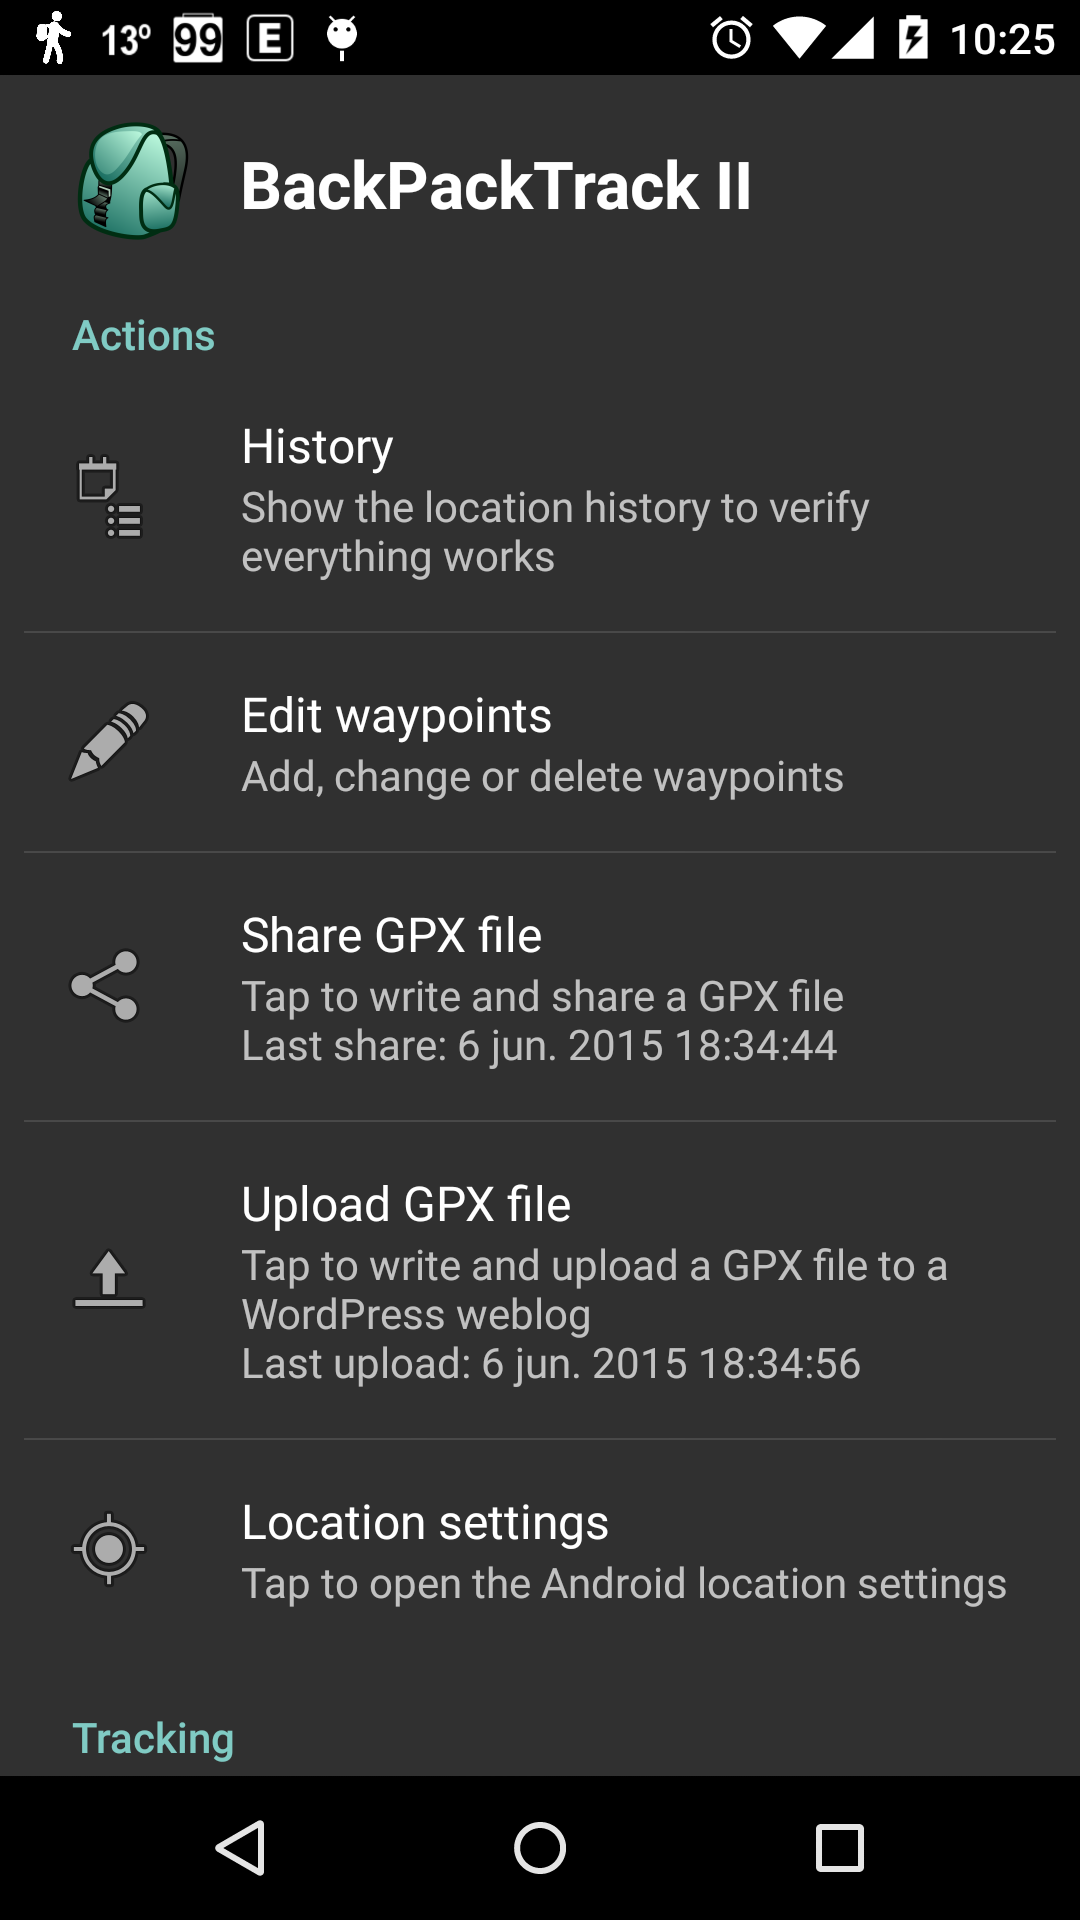
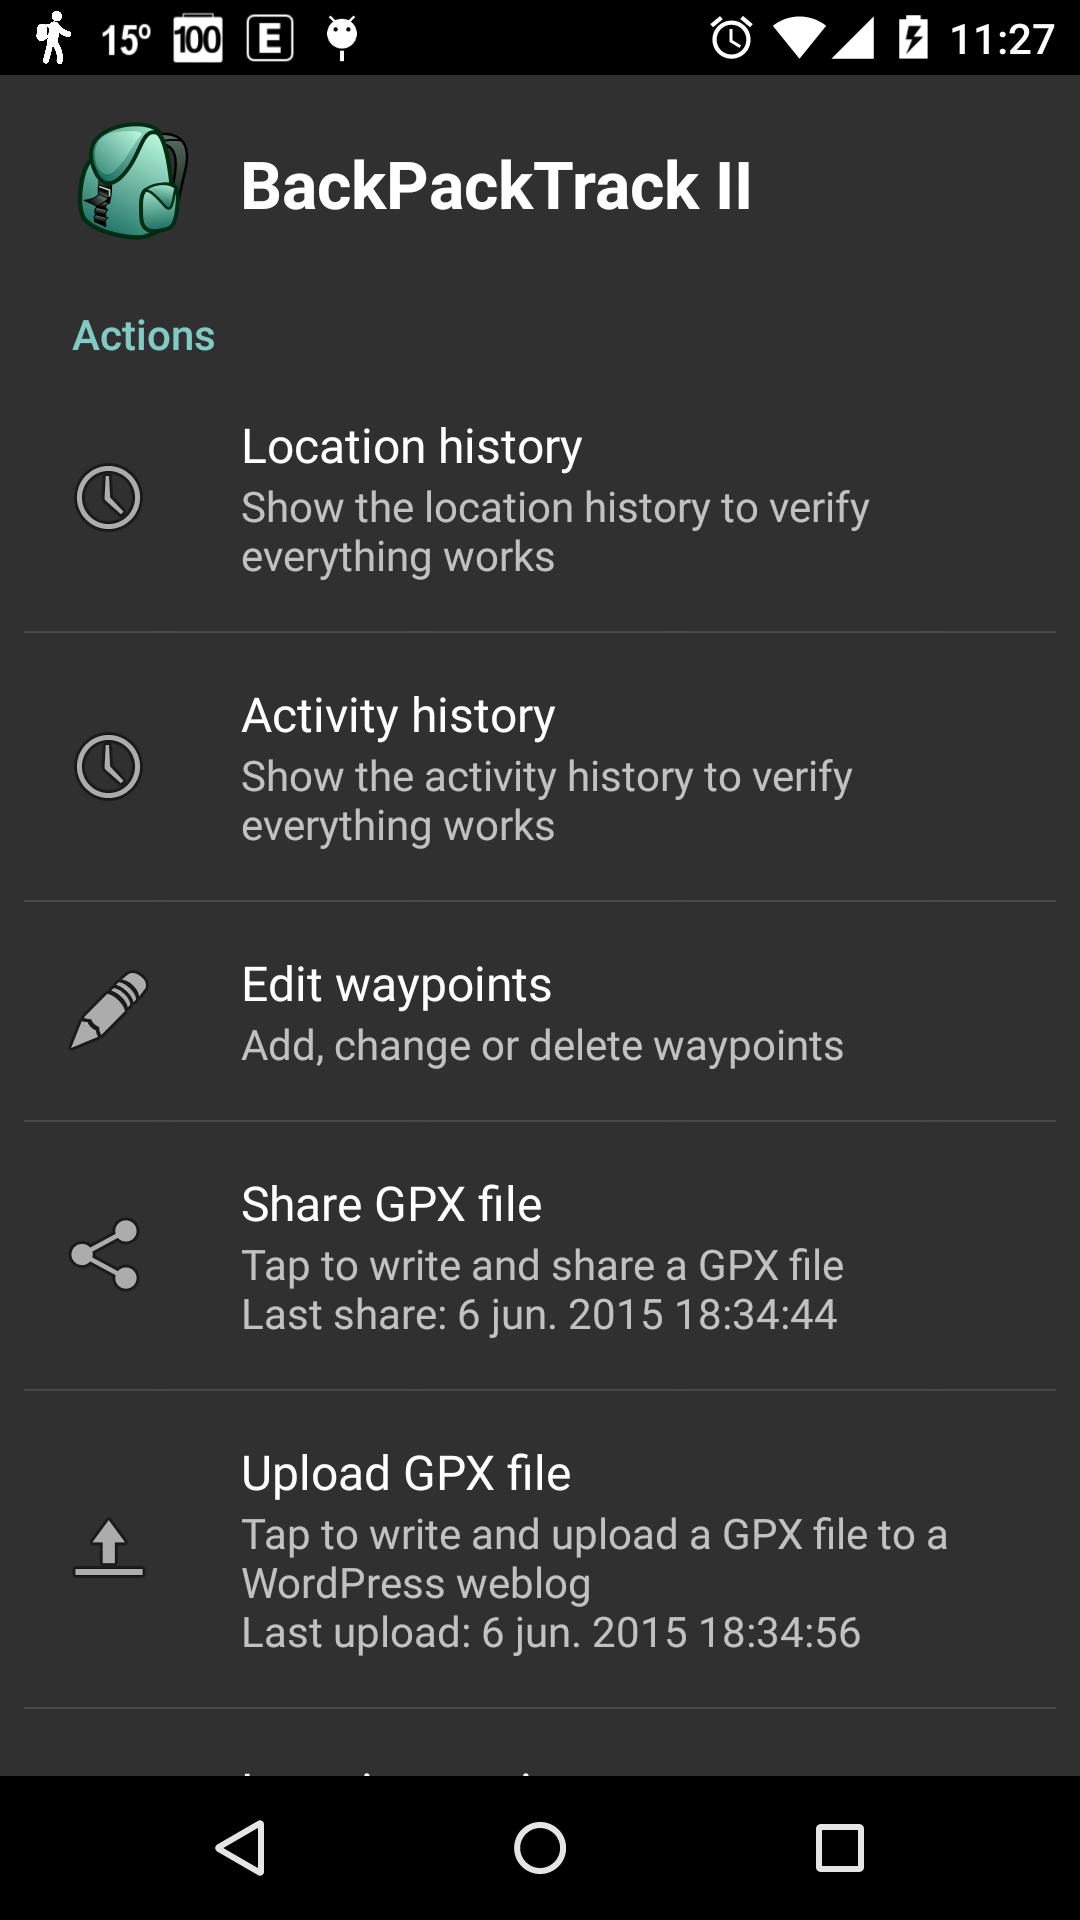
Added registering/viewing activities

diff --git a/app/src/main/java/eu/faircode/backpacktrack2/ActivitySettings.java b/app/src/main/java/eu/faircode/backpacktrack2/ActivitySettings.java
@@ -66,7 +66,8 @@ public class ActivitySettings extends PreferenceActivity implements SharedPrefer
     private static final String TAG = "BPT2.Settings";
 
     // Preference names
-    public static final String PREF_HISTORY = "pref_history";
+    public static final String PREF_LOCATION_HISTORY = "pref_location_history";
+    public static final String PREF_ACTIVITY_HISTORY = "pref_activity_history";
     public static final String PREF_EDIT = "pref_edit";
     public static final String PREF_SHARE = "pref_share";
     public static final String PREF_UPLOAD = "pref_upload";
@@ -197,7 +198,8 @@ public class ActivitySettings extends PreferenceActivity implements SharedPrefer
         }
 
         // Get preferences
-        Preference pref_history = findPreference(PREF_HISTORY);
+        Preference pref_location_history = findPreference(PREF_LOCATION_HISTORY);
+        Preference pref_activity_history = findPreference(PREF_ACTIVITY_HISTORY);
         Preference pref_edit = findPreference(PREF_EDIT);
         Preference pref_share = findPreference(PREF_SHARE);
         Preference pref_upload = findPreference(PREF_UPLOAD);
@@ -232,19 +234,28 @@ public class ActivitySettings extends PreferenceActivity implements SharedPrefer
         updateTitle(prefs, PREF_BLOGPWD);
 
         // Handle location history
-        pref_history.setOnPreferenceClickListener(new Preference.OnPreferenceClickListener() {
+        pref_location_history.setOnPreferenceClickListener(new Preference.OnPreferenceClickListener() {
             @Override
             public boolean onPreferenceClick(Preference preference) {
-                history();
+                location_history();
                 return true;
             }
         });
 
-        // Handle edit waypoints
+        // Handle location history
+        pref_activity_history.setOnPreferenceClickListener(new Preference.OnPreferenceClickListener() {
+            @Override
+            public boolean onPreferenceClick(Preference preference) {
+                activity_history();
+                return true;
+            }
+        });
+
+        // Handle waypoint_edit waypoints
         pref_edit.setOnPreferenceClickListener(new Preference.OnPreferenceClickListener() {
             @Override
             public boolean onPreferenceClick(Preference preference) {
-                edit();
+                edit_waypoints();
                 return true;
             }
         });
@@ -295,6 +306,7 @@ public class ActivitySettings extends PreferenceActivity implements SharedPrefer
 
         // Check for Play services
         boolean playServices = (GooglePlayServicesUtil.isGooglePlayServicesAvailable(this) == ConnectionResult.SUCCESS);
+        findPreference(PREF_ACTIVITY_HISTORY).setEnabled(playServices);
         findPreference(PREF_RECOGNITION_ENABLED).setEnabled(playServices);
         findPreference(PREF_RECOGNITION_INTERVAL).setEnabled(playServices);
         findPreference(PREF_RECOGNITION_CONFIDENCE).setEnabled(playServices);
@@ -386,21 +398,21 @@ public class ActivitySettings extends PreferenceActivity implements SharedPrefer
 
     // Helper methods
 
-    private void history() {
+    private void location_history() {
         // Get layout
         LayoutInflater inflater = LayoutInflater.from(ActivitySettings.this);
-        View viewEdit = inflater.inflate(R.layout.history, null);
+        View viewHistory = inflater.inflate(R.layout.location_history, null);
 
         // Fill list
-        ListView lv = (ListView) viewEdit.findViewById(R.id.lvHistory);
-        Cursor cursor = db.getList(0, Long.MAX_VALUE, true, true);
+        ListView lv = (ListView) viewHistory.findViewById(R.id.lvLocationHistory);
+        Cursor cursor = db.getLocations(0, Long.MAX_VALUE, true, true);
         LocationAdapter adapter = new LocationAdapter(ActivitySettings.this, cursor);
         lv.setAdapter(adapter);
 
         // Show layout
         AlertDialog.Builder alertDialogBuilder = new AlertDialog.Builder(ActivitySettings.this);
-        alertDialogBuilder.setTitle(R.string.title_history);
-        alertDialogBuilder.setView(viewEdit);
+        alertDialogBuilder.setTitle(R.string.title_location_history);
+        alertDialogBuilder.setView(viewHistory);
         alertDialogBuilder
                 .setNegativeButton(android.R.string.cancel, new DialogInterface.OnClickListener() {
                     @Override
@@ -414,24 +426,50 @@ public class ActivitySettings extends PreferenceActivity implements SharedPrefer
         alertDialog.getWindow().clearFlags(WindowManager.LayoutParams.FLAG_NOT_FOCUSABLE | WindowManager.LayoutParams.FLAG_ALT_FOCUSABLE_IM);
     }
 
-    private void edit() {
+    private void activity_history() {
+        // Get layout
+        LayoutInflater inflater = LayoutInflater.from(ActivitySettings.this);
+        View viewHistory = inflater.inflate(R.layout.activity_history, null);
+
+        // Fill list
+        ListView lv = (ListView) viewHistory.findViewById(R.id.lvActivityHistory);
+        Cursor cursor = db.getActivities(0, Long.MAX_VALUE);
+        ActivityAdapter adapter = new ActivityAdapter(ActivitySettings.this, cursor);
+        lv.setAdapter(adapter);
+
+        // Show layout
+        AlertDialog.Builder alertDialogBuilder = new AlertDialog.Builder(ActivitySettings.this);
+        alertDialogBuilder.setTitle(R.string.title_activity_history);
+        alertDialogBuilder.setView(viewHistory);
+        alertDialogBuilder
+                .setNegativeButton(android.R.string.cancel, new DialogInterface.OnClickListener() {
+                    @Override
+                    public void onClick(DialogInterface dialog, int which) {
+                        // Do nothing
+                    }
+                });
+        AlertDialog alertDialog = alertDialogBuilder.create();
+        alertDialog.show();
+    }
+
+    private void edit_waypoints() {
         // Get layout
         final LayoutInflater inflater = LayoutInflater.from(ActivitySettings.this);
-        View viewEdit = inflater.inflate(R.layout.edit, null);
+        View viewEdit = inflater.inflate(R.layout.waypoint_edit, null);
 
         // Fill list
         ListView lv = (ListView) viewEdit.findViewById(R.id.lvEdit);
-        Cursor cursor = db.getList(0, Long.MAX_VALUE, false, true);
+        Cursor cursor = db.getLocations(0, Long.MAX_VALUE, false, true);
         final WaypointAdapter adapter = new WaypointAdapter(ActivitySettings.this, cursor);
         lv.setAdapter(adapter);
 
-        // Handle add
+        // Handle waypoint_add
         ImageView ivAdd = (ImageView) viewEdit.findViewById(R.id.ivAdd);
         if (Geocoder.isPresent())
             ivAdd.setOnClickListener(new View.OnClickListener() {
                 @Override
                 public void onClick(View view) {
-                    final View viewEdit = inflater.inflate(R.layout.add, null);
+                    final View viewEdit = inflater.inflate(R.layout.waypoint_add, null);
                     final EditText address = (EditText) viewEdit.findViewById(R.id.etAdd);
 
                     AlertDialog.Builder alertDialogBuilder = new AlertDialog.Builder(ActivitySettings.this);
@@ -443,7 +481,7 @@ public class ActivitySettings extends PreferenceActivity implements SharedPrefer
                                 public void onClick(DialogInterface dialog, int which) {
                                     String name = address.getText().toString();
                                     if (!TextUtils.isEmpty(name))
-                                        add(name, adapter);
+                                        add_waypoint(name, adapter);
                                 }
                             });
                     alertDialogBuilder
@@ -477,7 +515,7 @@ public class ActivitySettings extends PreferenceActivity implements SharedPrefer
         alertDialog.getWindow().clearFlags(WindowManager.LayoutParams.FLAG_NOT_FOCUSABLE | WindowManager.LayoutParams.FLAG_ALT_FOCUSABLE_IM);
     }
 
-    private void add(final String name, final WaypointAdapter adapter) {
+    private void add_waypoint(final String name, final WaypointAdapter adapter) {
         // Geocode name
         Toast.makeText(this, getString(R.string.msg_geocoding, name), Toast.LENGTH_SHORT).show();
 
@@ -524,7 +562,7 @@ public class ActivitySettings extends PreferenceActivity implements SharedPrefer
 
                                 @Override
                                 protected void onPostExecute(Object result) {
-                                    Cursor cursor = db.getList(0, Long.MAX_VALUE, false, true);
+                                    Cursor cursor = db.getLocations(0, Long.MAX_VALUE, false, true);
                                     adapter.changeCursor(cursor);
                                     Toast.makeText(ActivitySettings.this, getString(R.string.msg_added, geocodedName), Toast.LENGTH_SHORT).show();
                                 }
@@ -861,7 +899,7 @@ public class ActivitySettings extends PreferenceActivity implements SharedPrefer
 
                                                 @Override
                                                 protected void onPostExecute(Object result) {
-                                                    Cursor cursor = db.getList(0, Long.MAX_VALUE, false, true);
+                                                    Cursor cursor = db.getLocations(0, Long.MAX_VALUE, false, true);
                                                     changeCursor(cursor);
                                                     Toast.makeText(context, getString(R.string.msg_updated, geocodedName), Toast.LENGTH_SHORT).show();
                                                 }
@@ -898,7 +936,7 @@ public class ActivitySettings extends PreferenceActivity implements SharedPrefer
 
                         @Override
                         protected void onPostExecute(Object result) {
-                            Cursor cursor = db.getList(0, Long.MAX_VALUE, false, true);
+                            Cursor cursor = db.getLocations(0, Long.MAX_VALUE, false, true);
                             changeCursor(cursor);
                             Toast.makeText(context, getString(R.string.msg_updated, newName), Toast.LENGTH_SHORT).show();
                         }
@@ -924,7 +962,7 @@ public class ActivitySettings extends PreferenceActivity implements SharedPrefer
 
                                         @Override
                                         protected void onPostExecute(Object result) {
-                                            Cursor cursor = db.getList(0, Long.MAX_VALUE, false, true);
+                                            Cursor cursor = db.getLocations(0, Long.MAX_VALUE, false, true);
                                             changeCursor(cursor);
                                             Toast.makeText(context, getString(R.string.msg_deleted, name), Toast.LENGTH_SHORT).show();
                                         }
@@ -1028,6 +1066,35 @@ public class ActivitySettings extends PreferenceActivity implements SharedPrefer
                     }
                 }
             });
+        }
+    }
+
+    private class ActivityAdapter extends CursorAdapter {
+        public ActivityAdapter(Context context, Cursor cursor) {
+            super(context, cursor, 0);
+        }
+
+        @Override
+        public View newView(Context context, Cursor cursor, ViewGroup parent) {
+            return LayoutInflater.from(context).inflate(R.layout.activity, parent, false);
+        }
+
+        @Override
+        public void bindView(final View view, final Context context, final Cursor cursor) {
+            // Get values
+            long time = cursor.getLong(cursor.getColumnIndex("time"));
+            int activity = cursor.getInt(cursor.getColumnIndex("activity"));
+            int confidence = cursor.getInt(cursor.getColumnIndex("confidence"));
+
+            // Get views
+            TextView tvTime = (TextView) view.findViewById(R.id.tvTime);
+            TextView tvActivity = (TextView) view.findViewById(R.id.tvActivity);
+            TextView tvConfidence = (TextView) view.findViewById(R.id.tvConfidence);
+
+            // Set values
+            tvTime.setText(SimpleDateFormat.getDateTimeInstance(SimpleDateFormat.SHORT, SimpleDateFormat.MEDIUM).format(time));
+            tvActivity.setText(LocationService.getActivityName(activity, ActivitySettings.this));
+            tvConfidence.setText(confidence + "%");
         }
     }
 }

diff --git a/app/src/main/java/eu/faircode/backpacktrack2/DatabaseHelper.java b/app/src/main/java/eu/faircode/backpacktrack2/DatabaseHelper.java
@@ -6,10 +6,13 @@ import android.database.Cursor;
 import android.database.sqlite.SQLiteDatabase;
 import android.database.sqlite.SQLiteOpenHelper;
 import android.location.Location;
+import android.util.Log;
 
 public class DatabaseHelper extends SQLiteOpenHelper {
+    private static final String TAG = "BPT2.Database";
+
     private static final String DBNAME = "BACKPACKTRACKII";
-    private static final int DBVERSION = 1;
+    private static final int DBVERSION = 2;
 
     public DatabaseHelper(Context context) {
         super(context, DBNAME, null, DBVERSION);
@@ -17,6 +20,7 @@ public class DatabaseHelper extends SQLiteOpenHelper {
 
     @Override
     public void onCreate(SQLiteDatabase db) {
+        Log.w(TAG, "Creating database");
         db.execSQL("CREATE TABLE location (" +
                 " ID INTEGER PRIMARY KEY AUTOINCREMENT" +
                 ", time INTEGER NOT NULL" +
@@ -34,6 +38,16 @@ public class DatabaseHelper extends SQLiteOpenHelper {
 
     @Override
     public void onUpgrade(SQLiteDatabase db, int oldVersion, int newVersion) {
+        Log.w(TAG, "Upgrading from version " + oldVersion + " to " + newVersion);
+        switch (oldVersion) {
+            case 1:
+                db.execSQL("CREATE TABLE activity (" +
+                        " ID INTEGER PRIMARY KEY AUTOINCREMENT" +
+                        ", time INTEGER NOT NULL" +
+                        ", activity INTEGER NOT NULL" +
+                        ", confidence INTEGER NOT NULL" + ");");
+                db.execSQL("CREATE INDEX idx_activity_time ON activity(time)");
+        }
     }
 
     public DatabaseHelper insert(Location location, String name) {
@@ -75,7 +89,20 @@ public class DatabaseHelper extends SQLiteOpenHelper {
         return this;
     }
 
-    public Cursor getList(long from, long to, boolean trackpoints, boolean waypoints) {
+    public DatabaseHelper insert(long time, int activity, int confidence) {
+        SQLiteDatabase db = this.getWritableDatabase();
+
+        ContentValues cv = new ContentValues();
+        cv.put("time", time);
+        cv.put("activity", activity);
+        cv.put("confidence", confidence);
+
+        db.insert("activity", null, cv);
+
+        return this;
+    }
+
+    public Cursor getLocations(long from, long to, boolean trackpoints, boolean waypoints) {
         SQLiteDatabase db = this.getReadableDatabase();
         String query = "SELECT *, ID AS _id FROM location";
         query += " WHERE time >= ? AND time <= ?";
@@ -83,6 +110,14 @@ public class DatabaseHelper extends SQLiteOpenHelper {
             query += " AND name IS NULL";
         if (!trackpoints && waypoints)
             query += " AND NOT name IS NULL";
+        query += " ORDER BY time DESC";
+        return db.rawQuery(query, new String[]{Long.toString(from), Long.toString(to)});
+    }
+
+    public Cursor getActivities(long from, long to) {
+        SQLiteDatabase db = this.getReadableDatabase();
+        String query = "SELECT *, ID AS _id FROM activity";
+        query += " WHERE time >= ? AND time <= ?";
         query += " ORDER BY time DESC";
         return db.rawQuery(query, new String[]{Long.toString(from), Long.toString(to)});
     }

diff --git a/app/src/main/java/eu/faircode/backpacktrack2/LocationService.java b/app/src/main/java/eu/faircode/backpacktrack2/LocationService.java
@@ -158,6 +158,7 @@ public class LocationService extends IntentService {
         DetectedActivity activity = activityResult.getMostProbableActivity();
 
         Log.w(TAG, "Activity=" + activity);
+        new DatabaseHelper(this).insert(new Date().getTime(), activity.getType(), activity.getConfidence()).close();
 
         // Filter unknown activity
         boolean pref_unknown = prefs.getBoolean(ActivitySettings.PREF_RECOGNITION_UNKNOWN, ActivitySettings.DEFAULT_RECOGNITION_UNKNOWN);
@@ -905,7 +906,7 @@ public class LocationService extends IntentService {
         nm.notify(0, notificationBuilder.build());
     }
 
-    private static String getActivityName(int activityType, Context context) {
+    public static String getActivityName(int activityType, Context context) {
         switch (activityType) {
             case DetectedActivity.STILL:
                 return context.getString(R.string.still);
@@ -939,12 +940,18 @@ public class LocationService extends IntentService {
         String gpxFileName = folder.getAbsolutePath() + File.separatorChar + trackName + ".gpx";
         Log.w(TAG, "Writing file=" + gpxFileName);
         DatabaseHelper databaseHelper = null;
+        Cursor trackPoints = null;
+        Cursor wayPoints = null;
         try {
             databaseHelper = new DatabaseHelper(context);
-            Cursor trackPoints = databaseHelper.getList(from, to, true, false);
-            Cursor wayPoints = databaseHelper.getList(from, to, false, true);
+            trackPoints = databaseHelper.getLocations(from, to, true, false);
+            wayPoints = databaseHelper.getLocations(from, to, false, true);
             GPXFileWriter.writeGpxFile(new File(gpxFileName), trackName, extensions, trackPoints, wayPoints);
         } finally {
+            if (wayPoints != null)
+                wayPoints.close();
+            if (trackPoints != null)
+                trackPoints.close();
             if (databaseHelper != null)
                 databaseHelper.close();
         }

diff --git a/app/src/main/java/eu/faircode/backpacktrack2/GPXFileWriter.java b/app/src/main/java/eu/faircode/backpacktrack2/GPXFileWriter.java
@@ -71,7 +71,6 @@ public class GPXFileWriter {
 
             fw.write(out.toString());
         }
-        c.close();
 
         fw.write("\t\t" + "</trkseg>" + "\n");
         fw.write("\t" + "</trk>" + "\n");
@@ -116,6 +115,5 @@ public class GPXFileWriter {
 
             fw.write(out.toString());
         }
-        c.close();
     }
 }
